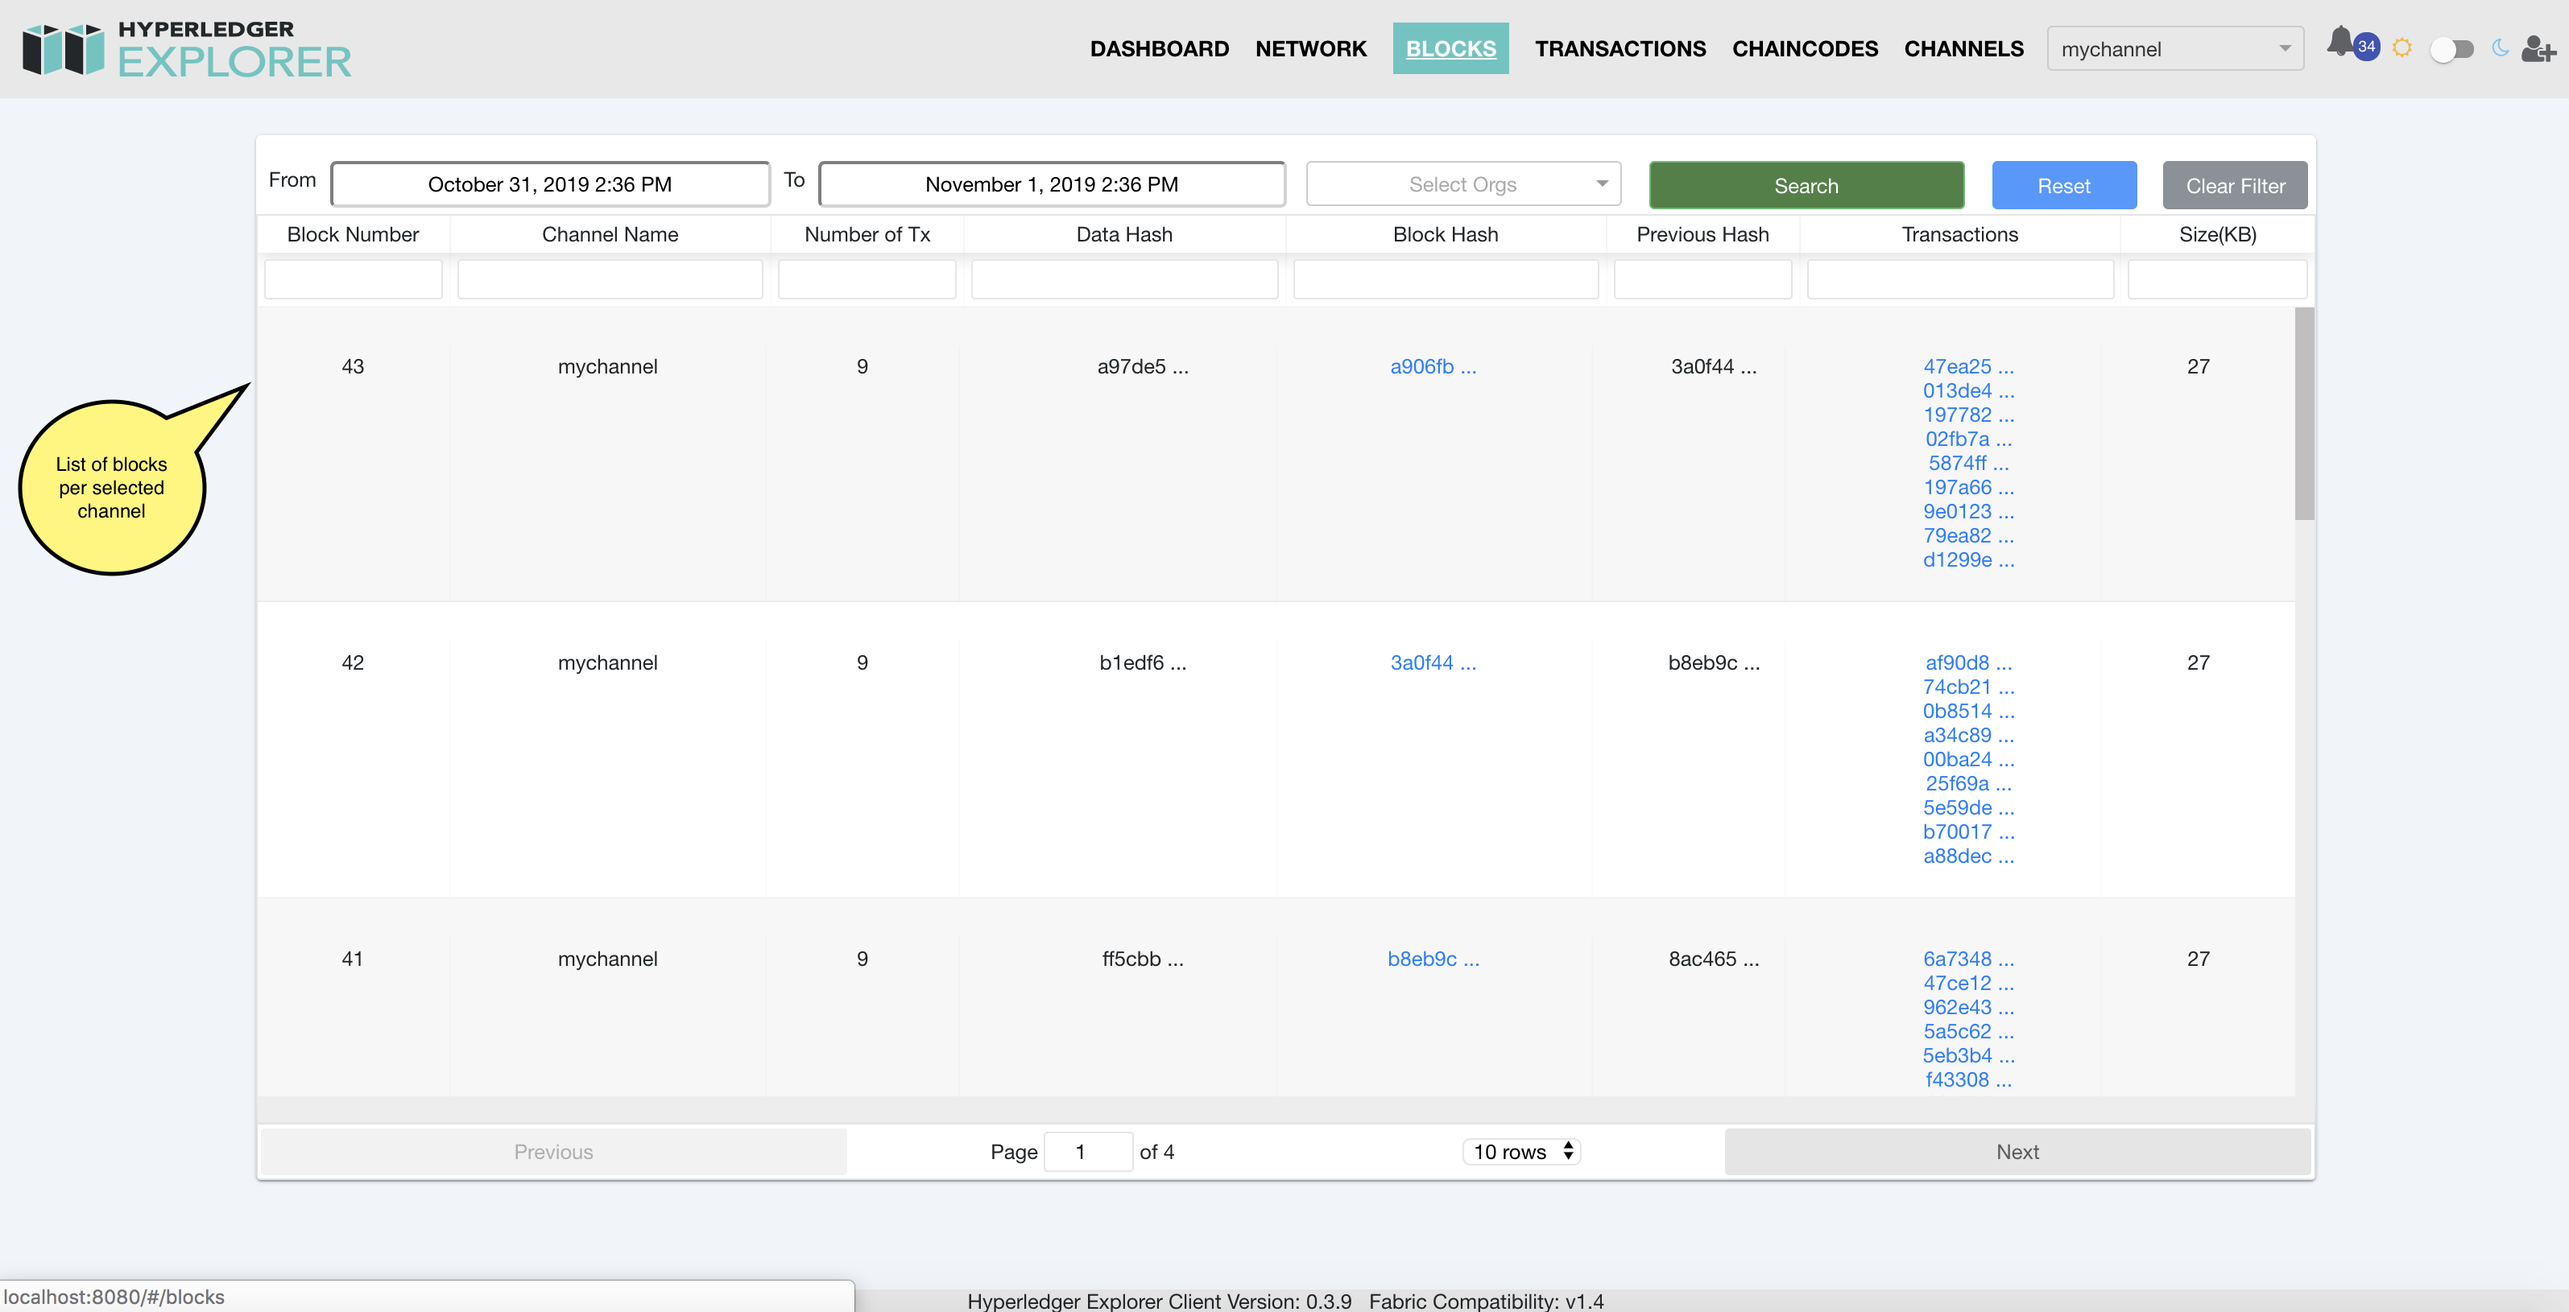
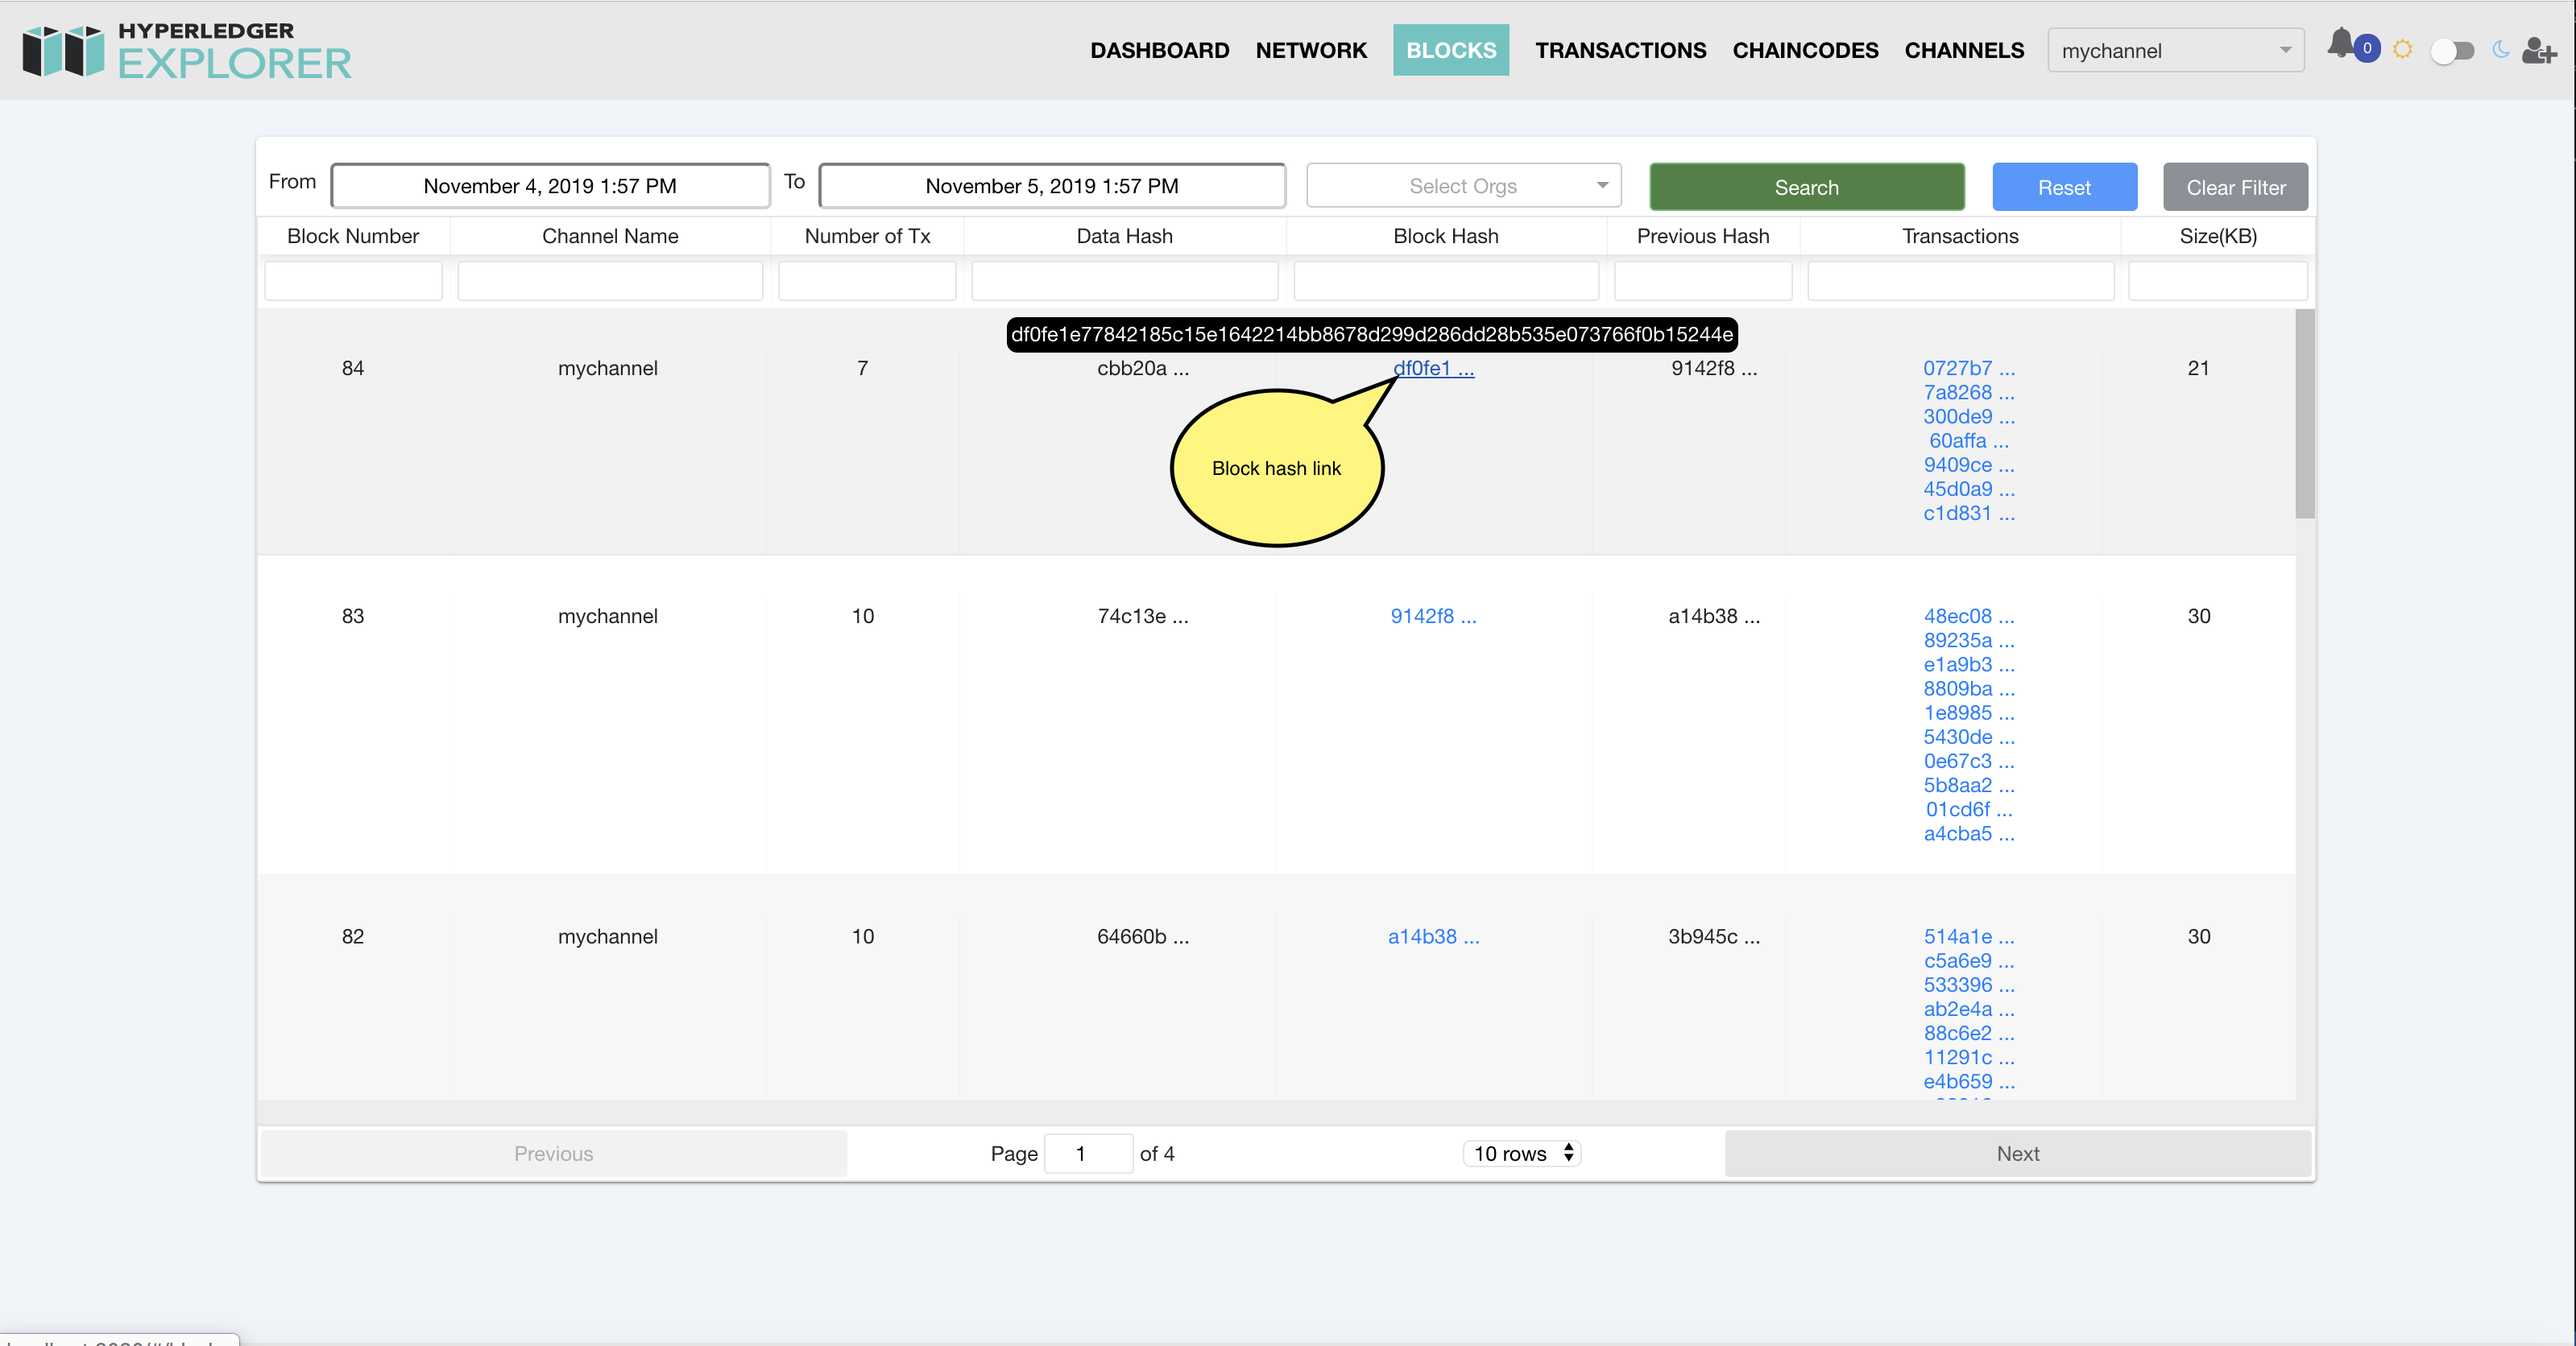
BE-679 Create online documentation
* added explorer screens, and descriptions

diff --git a/docs/source/presentation/hl_blocks_per_hour.html b/docs/source/presentation/hl_blocks_per_hour.html
@@ -1,0 +1,20 @@
+<!DOCTYPE html>
+<html>
+
+<head>
+	<meta name="viewport" content="width=device-width, initial-scale=1">
+	<link rel="stylesheet" href="../_static/css/styles.css">
+</head>
+
+<body>
+	<p>Blocks per hour</p>
+	<div class="container">
+		<input type="checkbox" id="hl_blocks_per_hour">
+		<label for="hl_blocks_per_hour">
+			<img src="../_static/images/hl_blocks_per_hour.png">
+		</label>
+	</div>
+	<br>
+</body>
+
+</html>

diff --git a/docs/source/presentation/hl_blocks_per_minute.html b/docs/source/presentation/hl_blocks_per_minute.html
@@ -1,0 +1,19 @@
+<!DOCTYPE html>
+<html>
+
+<head>
+	<meta name="viewport" content="width=device-width, initial-scale=1">
+	<link rel="stylesheet" href="../_static/css/styles.css">
+</head>
+
+<body>
+	<div class="container">
+		<input type="checkbox" id="hl_blocks_per_minute">
+		<label for="hl_blocks_per_minute">
+			<img src="../_static/images/hl_blocks_per_minute.png">
+		</label>
+	</div>
+	<br>
+</body>
+
+</html>

diff --git a/docs/source/presentation/hl_tx_count_per_hour.html b/docs/source/presentation/hl_tx_count_per_hour.html
@@ -1,0 +1,19 @@
+<!DOCTYPE html>
+<html>
+
+<head>
+	<meta name="viewport" content="width=device-width, initial-scale=1">
+	<link rel="stylesheet" href="../_static/css/styles.css">
+</head>
+
+<body>
+	<div class="container">
+		<input type="checkbox" id="hl_tx_count_per_hour">
+		<label for="hl_tx_count_per_hour">
+			<img src="../_static/images/hl_tx_count_per_hour.png">
+		</label>
+	</div>
+	<br>
+</body>
+
+</html>

diff --git a/docs/source/presentation/hl_tx_count_minute.html b/docs/source/presentation/hl_tx_count_minute.html
@@ -1,0 +1,19 @@
+<!DOCTYPE html>
+<html>
+
+<head>
+	<meta name="viewport" content="width=device-width, initial-scale=1">
+	<link rel="stylesheet" href="../_static/css/styles.css">
+</head>
+
+<body>
+	<div class="container">
+		<input type="checkbox" id="hl_tx_count_minute">
+		<label for="hl_tx_count_minute">
+			<img src="../_static/images/hl_tx_count_minute.png">
+		</label>
+	</div>
+	<br>
+</body>
+
+</html>

diff --git a/docs/source/presentation/hl_block_details_notification_panel.html b/docs/source/presentation/hl_block_details_notification_panel.html
@@ -11,13 +11,12 @@
 <body>
 <p></p>
 <div class="container">
-	<input type="checkbox" id="hl_dashboard">
-	<label for="hl_dashboard">
-		<img src="../_static/images/hl_dashboard.png">
+	<input type="checkbox" id="hl_block_details_notification_panel">
+	<label for="hl_block_details_notification_panel">
+		<img src="../_static/images/hl_link_icon_to_block_details.png">
 	</label>
 </div>
 <br>
-
 </body>
 
 </html>

diff --git a/docs/source/_static/css/styles.css b/docs/source/_static/css/styles.css
@@ -8,10 +8,13 @@ input[type='checkbox'] {
 	margin: 0px;
 	transition: transform 0.25s ease;
 	cursor: zoom-in;
+	overflow: auto;
+	display: block;
 }
 
 input[type='checkbox']:checked ~ label > img {
-	transform: scale(1.75);
-	transform-origin: left;
+	transform: scale(1.2);
+	/*transform-origin: left; */
+	transform-origin: 0 0;
 	cursor: zoom-out;
 }

diff --git a/docs/source/presentation/hl_filter_window.html b/docs/source/presentation/hl_filter_window.html
@@ -15,7 +15,7 @@
 <div class="container">
 	<input type="checkbox" id="hl_filter_window">
 	<label for="hl_filter_window">
-		<img src="../_static/images/hl_filter_window.png">
+		<img src="../_static/images/hl_block_filter.png">
 	</label>
 </div>
 

diff --git a/docs/source/presentation/index.rst b/docs/source/presentation/index.rst
@@ -2,43 +2,79 @@
 
 .. SPDX-License-Identifier: Apache-2.0
 
-Hyperledger Explorer Demo
-==========================
+Hyperledger Explorer screens
+============================
 
 Login screen
 --------------
-When user navigates to the home page of Hyperledger Explorer or enters default url **http(s)://<host>:<port>** initially the login screen
+When user navigates to the home page of Hyperledger Explorer or enters default url **http(s)://<host>:<port>**, initially the login screen
 will be displayed to select the `Network Name`, and enter the user, and password based on the configuration in order to access the dashboard page.
 
 .. raw:: html
      :file: ./hl_login.html
 
 
+.. important::
+   Expiration time of the `JWT token <https://github.com/hyperledger/blockchain-explorer/blob/master/app/explorerconfig.json>`__, can be configured and by default is set to two hours.
+
+
+
+
+Dashboard
+--------------
+Dashboard is the home page of the Hyperledger Explorer, and displays a set of panels that will show the latest activity of the
+Hyperledger Fabric network the explorer is configured to.
+We can see the navigation tabs: :guilabel:`DASHBOARD`, :guilabel:`NETWORK`, :guilabel:`BLOCKS`, :guilabel:`TRANSACTIONS`, :guilabel:`CHAINCODES`,  :guilabel:`CHANNELS`.
+Along with the navigation tabs there are: :guilabel:`channel drop down`, :guilabel:`dark theme switch`, :guilabel:`latest notification`, and :guilabel:`register user` icons.
+List of the peers can be seen, metrics, followed by latest activity, and transactions by organization panels.
+Each panel reflects the historical, metrics, and the latest activity per selected channel.
+
+.. raw:: html
+     :file: ./hl_dashboard.html
+
+.. note::
+   To see another channel latest activity, select another channel from the drop down list.
+
+
+
+Latest blocks notification panel
+--------------------------------
+The latest block notification panel displays the block number, channel name, datahash, and the number of transactions per block.
+There is an  :guilabel:`icon link` if clicked, it will show the latest block details, and is located in the right most corner of the panel. In the picture below you can see
+the block details accessed from the provided link.
+
+
+.. raw:: html
+     :file: ./hl_block_details_notification_panel.html
+
+
+
+
 Dark theme screen
 -----------------
-TODO add content
+The dark theme mode it is another view of the Hyperledger Explorer, there can be some potential benefits by switching to it.
 
 .. raw:: html
      :file: ./hl_dark_theme.html
 
 
-
 Network
 --------------
-TODO add content
+Network screen consist of the list of the properties that channel is configured to.
 
 .. raw:: html
      :file: ./hl_network.html
 
 
-
 Block list
 --------------
-TODO add content
+Block list displays a list of the block attributes, and links to block, and transaction pop up details window. Please notice when mouse over
+it will display the actual block hash.
+Displayed in a table all the headers are sortable either descending or ascending depending of the direction selected. A filter can be applied to search
+by date range, and selected organization from the list.
 
 .. raw:: html
      :file: ./hl_block_list.html
-
 
 
 Block details window
@@ -48,38 +84,36 @@ TODO add content
 .. raw:: html
      :file: ./hl_block_details_window.html
 
-
-
 Filter result
 --------------
-TODO add content
+By default block list will return one day woth of data, but you can modify the search criteria to search
+historical data, and apply also filter to the returned result.
+List can be sorted by one of desired direction, ascending or descending. To clear the global filter you can use the :guilabel:`Clear Filter` button.
+The :guilabel:`Reset` button can be used to reset the date range, and the organizations selection.
 
 .. raw:: html
      :file: ./hl_filter_window.html
 
 
-
 Transaction list
 -----------------
-TODO add content
+Transaction list screen has almost identical functionality as the block list screen.
 
 .. raw:: html
      :file: ./hl_transaction_list.html
 
 
-
 Transaction details
 -------------------
-TODO add content
+Transaction details is similar to block details, JSON data can be folded/unfolded for the preview purposes.
 
 .. raw:: html
      :file: ./hl_tx_details.html
 
 
-
 Chaincode list
 ---------------
-TODO add content
+Chaincode list displays the chaincode properties and has filter, and sort functionalities. Displayed list is for the current selected channel.
 
 .. raw:: html
      :file: ./hl_chaincodes.html
@@ -87,8 +121,52 @@ TODO add content
 
 Channel list
 --------------
-TODO add content
+Channel list displays all the channels, and it's properties, has similar filter, and sort functionalities as chaincode list.
 
 .. raw:: html
      :file: ./hl_channel_list.html
+
+
+
+Metrics
+--------
+
+Metrics panel has four tabs that will show the latest statistics of blocks, and transactions per selected channel.
+By hovering mouse over at any point of intersection in the graph will show the counts per hour, or minute. Click on any tabs below to see the metrics per
+block/transaction, hours or minute.
+
+
+
+.. container:: content-tabs
+
+    .. tab-container:: blocks_per_hour
+        :title: Blocks per hour
+
+
+        .. image:: ../_static/images/hl_blocks_per_hour.png
+
+
+    .. tab-container:: blocks_per_minute
+        :title: Blocks per minute
+
+
+        .. image:: ../_static/images/hl_blocks_per_minute.png
+
+
+    .. tab-container:: tx_per_hour
+        :title: Transactions per hour
+
+
+        .. image:: ../_static/images/hl_tx_count_per_hour.png
+
+
+    .. tab-container:: tx_per_minute
+        :title: Transactions per minute
+
+
+        .. image:: ../_static/images/hl_tx_count_minute.png
+
+
+
+
 

diff --git a/docs/source/index.rst b/docs/source/index.rst
@@ -23,18 +23,17 @@ Overview of Hyperledger Explorer
 Table of contents
 =================
 
+
 .. toctree::
    :maxdepth: 1
 
 
    introduction
+   presentation/index
    architecture
    getting_started
    tutorials
    CONTRIBUTING
-
-
-
 
 .. Licensed under Creative Commons Attribution 4.0 International License
    https://creativecommons.org/licenses/by/4.0/

diff --git a/docs/source/tutorials/run_explorer.rst b/docs/source/tutorials/run_explorer.rst
@@ -2,7 +2,7 @@
 .. SPDX-License-Identifier: Apache-2.0
 
 
-Running HL Explorer:
+Running HL Explorer
 *********************************
 
 

diff --git a/docs/source/introduction.rst b/docs/source/introduction.rst
@@ -31,7 +31,7 @@ What are the key features of Hyperledger Explorer?
 
 
 
-   presentation/index
+..   presentation/index
 
 
 
